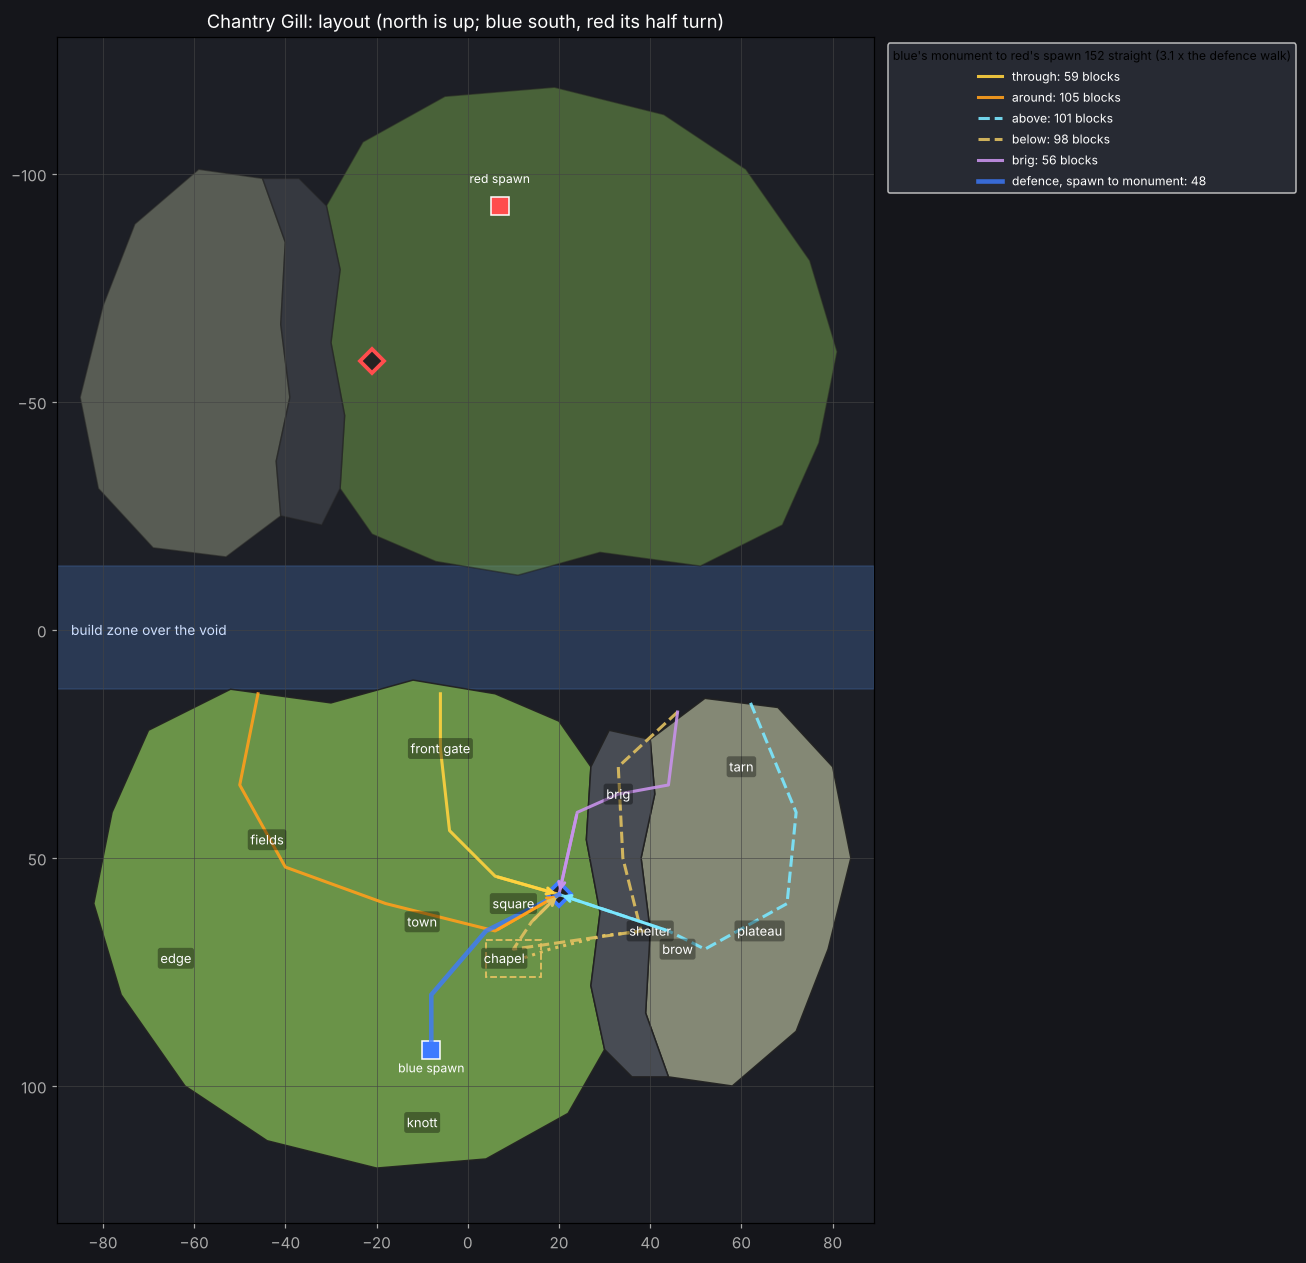
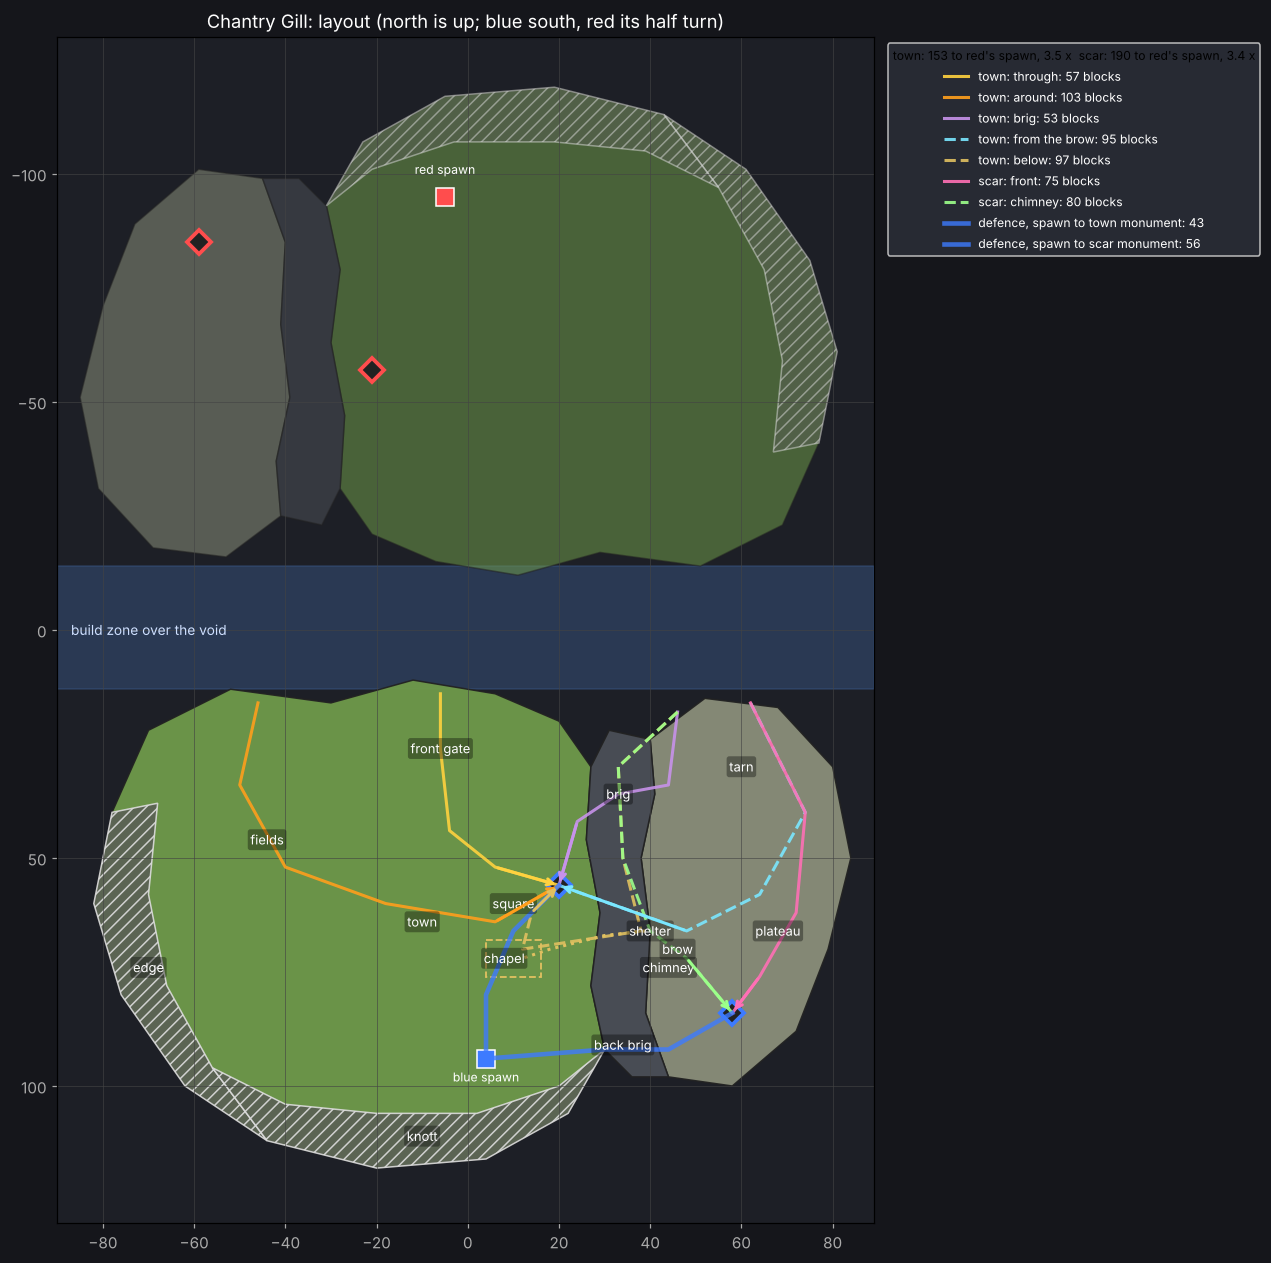
Chantry Gill layout: two monuments a team, the edge and the knott as scenery
A monument on each landmass: over the town's square and on the Scar's
plateau, reached from the spawn down the street and over a back bridge.
The edge and the knott are scenery fenced off by their faces. The Scar
monument has two ways at it of its own, the front slope and a chimney up
from the shelter.

Claude-Session: https://claude.ai/code/session_01SkxaMovP21NqxJRVezmVa6

diff --git a/freeform/lib/boards/chantry-gill/scripts/layout.py b/freeform/lib/boards/chantry-gill/scripts/layout.py
@@ -15,36 +15,50 @@ SIDE = [(40, 24), (52, 15), (68, 17), (80, 30), (84, 50), (79, 70), (72, 88), (5
 # the gill: the gorge between them, its floor 9 under the main island's rim
 GILL = [MAIN[7], MAIN[8], MAIN[9], MAIN[10], MAIN[11], (36, 98), (44, 98), SIDE[9], SIDE[10], SIDE[11], SIDE[12],
         SIDE[0], (31, 22)]
+# scenery: the edge down the west and the knott across the back, high ground fenced off from play by its own
+# faces; it frames the board and nobody fights on it
+EDGE = [(-82, 60), (-76, 80), (-62, 100), (-44, 112), (-56, 96), (-66, 78), (-70, 58), (-68, 38), (-78, 40)]
+KNOTT = [(-44, 112), (-20, 118), (4, 116), (22, 106), (30, 92), (20, 100), (2, 106), (-20, 106), (-40, 104),
+         (-56, 96)]
 BUILD_Z = (-14, 13)                       # the build zone over the void between the teams, the board's whole width
 X_RANGE = (-90, 89)
 
 PLACES = {                                 # name: (x, z, what it is)
-    "spawn": (-8, 92, "the spawn, at the foot of the knott, the hall behind it"),
-    "monument": (20, 58, "the monument: three obsidian over the market square, on the town's east rim"),
+    "spawn": (4, 94, "the spawn, at the foot of the knott, the hall behind it"),
+    "town monument": (20, 56, "the town monument: three obsidian over the market square, on the town's east rim"),
+    "scar monument": (58, 84, "the Scar monument: three obsidian on the plateau behind the brow"),
     "square": (10, 60, "the market square, stalls along its west edge"),
     "chapel": (8, 72, "the chapel on the square's south side, the crypt under it, the ladder up into its nave"),
     "town": (-10, 64, "the town: houses on the main street and a lane, the wall broken on its west"),
     "front gate": (-6, 26, "the north gate, where the street leaves the town for the front"),
-    "knott": (-10, 108, "the knott: a crag behind the spawn, its face to the north, gullies in it"),
-    "edge": (-64, 72, "the edge: a slanting scarp down the west, its face to the town, dying out at the front"),
+    "knott": (-10, 111, "the knott: a crag across the back, its face to the north over the spawn; scenery"),
+    "edge": (-70, 74, "the edge: a scarp down the west, its face to the fell; scenery"),
     "fields": (-44, 46, "the byre, its field and the flower meadow, between the edge and the town"),
     "brig": (33, 36, "the brig: a stone arch over the gill, from the front of the town to the tarn"),
     "tarn": (60, 30, "the tarn on the Scar's front, its beach to the north, the beck running in from the gill"),
     "brow": (46, 70, "the Scar's brow: its face leaning out over the gill, 14 over the square and 22 off it"),
     "shelter": (40, 66, "the shelter worn into the brow's foot on the gill floor; the adit runs on from it"),
-    "plateau": (64, 66, "the plateau behind the brow, reached up a slope at its north end"),
+    "plateau": (68, 66, "the plateau behind the brow, reached up a slope at its north end"),
+    "back brig": (34, 91, "a timber bridge over the gill behind the brow: the spawn's way to the Scar"),
+    "chimney": (44, 74, "a chimney in the rock from the shelter up to the plateau, a ladder in it"),
 }
-SPAWN, MONUMENT = PLACES["spawn"][:2], PLACES["monument"][:2]
+SPAWN = PLACES["spawn"][:2]
+MONUMENTS = [PLACES["town monument"][:2], PLACES["scar monument"][:2]]
+MONUMENT = MONUMENTS[0]
 
-# the ways an attacker landing on this half comes at the monument
+# the ways an attacker landing on this half comes at each monument
 ROUTES = {
-    "through": [(-6, 14), (-6, 26), (-4, 44), (6, 54), (20, 58)],
-    "around": [(-46, 14), (-50, 34), (-40, 52), (-18, 60), (6, 66), (20, 58)],
-    "above": [(62, 16), (72, 40), (70, 60), (52, 70), (44, 66), "bridge", (20, 58)],
-    "below": [(46, 18), (33, 30), (34, 50), (38, 66), "adit", (10, 70), "shaft", (14, 64), (20, 58)],
-    "brig": [(46, 18), (44, 34), (33, 36), (24, 40), (20, 58)],
+    "town: through": [(-6, 14), (-6, 26), (-4, 44), (6, 52), (20, 56)],
+    "town: around": [(-46, 16), (-50, 34), (-40, 52), (-18, 60), (6, 64), (20, 56)],
+    "town: brig": [(46, 18), (44, 34), (33, 36), (24, 42), (20, 56)],
+    "town: from the brow": [(62, 16), (74, 40), (64, 58), (48, 66), "bridge", (20, 56)],
+    "town: below": [(46, 18), (33, 30), (34, 50), (38, 66), "adit", (12, 70), "ladder", (14, 62), (20, 56)],
+    "scar: front": [(62, 16), (74, 40), (72, 62), (64, 76), (58, 84)],
+    "scar: chimney": [(46, 18), (33, 30), (34, 50), (40, 66), "chimney", (48, 72), (58, 84)],
 }
-DEFENCE = [(-8, 92), (-8, 80), (4, 66), (20, 58)]
+DEFENCES = [[(4, 94), (4, 80), (10, 66), (20, 56)],
+            [(4, 94), (30, 92), (44, 92), (58, 84)]]
+DEFENCE = DEFENCES[0]
 ADIT = [(39, 66, 33), (30, 67, 29), (18, 70, 30), (12, 72, 33)]      # (x, z, floor y): shelter to crypt
 CRYPT = (4, 68, 16, 76)
 

diff --git a/freeform/lib/boards/chantry-gill/scripts/sketch_layout.py b/freeform/lib/boards/chantry-gill/scripts/sketch_layout.py
@@ -22,32 +22,39 @@ for team, f in (("blue", lambda p: p), ("red", L.turn)):
     pale = team == "red"
     for poly, colour in ((L.MAIN, "#6f9a4a"), (L.SIDE, "#8a8f7a"), (L.GILL, "#4b4f57")):
         ax.add_patch(Polygon([f(p) for p in poly], closed=True, fc=colour, ec="#222", lw=1, alpha=0.55 if pale else 0.95))
+    for poly in (L.EDGE, L.KNOTT):
+        ax.add_patch(Polygon([f(p) for p in poly], closed=True, fc="#5a5f55", ec="#ddd", lw=1, hatch="///",
+                             alpha=0.5 if pale else 0.9))
     sx, sz = f(L.SPAWN)
-    mx, mz = f(L.MONUMENT)
     c = "#3d7bff" if team == "blue" else "#ff4d4d"
     ax.plot(sx, sz, "s", ms=12, mfc=c, mec="w")
-    ax.plot(mx, mz, "D", ms=11, mfc="#222", mec=c, mew=2.5)
+    for m in L.MONUMENTS:
+        mx, mz = f(m)
+        ax.plot(mx, mz, "D", ms=11, mfc="#222", mec=c, mew=2.5)
     ax.text(sx, sz + (5 if team == "blue" else -5), f"{team} spawn", color="w", ha="center", fontsize=8)
 for name, (x, z, _) in L.PLACES.items():
-    if name in ("spawn", "monument"):
+    if name in ("spawn", "town monument", "scar monument"):
         continue
     ax.text(x, z, name, color="w", ha="center", va="center", fontsize=8.5,
             bbox=dict(boxstyle="round,pad=0.2", fc="#000", alpha=0.35, lw=0))
 ax.add_patch(plt.Rectangle((L.CRYPT[0], L.CRYPT[1]), L.CRYPT[2] - L.CRYPT[0], L.CRYPT[3] - L.CRYPT[1], fill=False,
                            ec="#e0c060", ls="--", lw=1.2))
 ax.plot([a[0] for a in L.ADIT], [a[1] for a in L.ADIT], ls=":", color="#e0c060", lw=2)
-colours = {"through": "#ffd23f", "around": "#ff9f1c", "above": "#7ae7ff", "below": "#e0c060", "brig": "#c792ea"}
+colours = {"town: through": "#ffd23f", "town: around": "#ff9f1c", "town: from the brow": "#7ae7ff",
+           "town: below": "#e0c060", "town: brig": "#c792ea", "scar: front": "#ff6fb5", "scar: chimney": "#9cff8a"}
 for name, pts in L.ROUTES.items():
     p = [q for q in pts if not isinstance(q, str)]
     ax.annotate("", xy=p[-1], xytext=p[-2], arrowprops=dict(arrowstyle="->", color=colours[name], lw=2))
     ax.plot([q[0] for q in p], [q[1] for q in p], color=colours[name], lw=2, alpha=0.9,
-            ls="--" if name in ("above", "below") else "-", label=f"{name}: {L.length(pts):.0f} blocks")
-ax.plot([q[0] for q in L.DEFENCE], [q[1] for q in L.DEFENCE], color="#3d7bff", lw=3, alpha=0.8,
-        label=f"defence, spawn to monument: {L.length(L.DEFENCE):.0f}")
-own = L.length(L.DEFENCE)
-far = math.dist(L.MONUMENT, L.turn(L.SPAWN))
+            ls="--" if any(k in name for k in ("brow", "below", "chimney")) else "-", label=f"{name}: {L.length(pts):.0f} blocks")
+for n, d in enumerate(L.DEFENCES):
+    ax.plot([q[0] for q in d], [q[1] for q in d], color="#3d7bff", lw=3, alpha=0.8,
+            label=f"defence, spawn to {('town', 'scar')[n]} monument: {L.length(d):.0f}")
+title = "  ".join(f"{('town', 'scar')[n]}: {math.dist(m, L.turn(L.SPAWN)):.0f} to red's spawn, "
+                  f"{math.dist(m, L.turn(L.SPAWN)) / L.length(d):.1f} x"
+                  for n, (m, d) in enumerate(zip(L.MONUMENTS, L.DEFENCES)))
 ax.legend(loc="upper left", bbox_to_anchor=(1.01, 1), fontsize=8, facecolor="#2a2d36", labelcolor="w", framealpha=0.9,
-          title=f"blue's monument to red's spawn {far:.0f} straight ({far / own:.1f} x the defence walk)",
+          title=title,
           title_fontsize=8)
 ax.set_xlim(x0, x1)
 ax.set_ylim(130, -130)

diff --git a/freeform/lib/boards/chantry-gill/PLAN.md b/freeform/lib/boards/chantry-gill/PLAN.md
@@ -1,14 +1,14 @@
 # Chantry Gill: the plan
 
-Destroy the monument, two teams, one monument a team. This file grows as the board is decided; the layout comes
+Destroy the monument, two teams, two monuments a team: one on each landmass. This file grows as the board is decided; the layout comes
 first. `scripts/layout.py` is the layout as data, `scripts/sketch_layout.py` draws it (`renders/00-layout.png`),
 and `assets/` holds the sheets every piece was designed and looked at on before the board was built.
 
 ## 1. The identity
 
 **Two hill towns face each other across the void, each on a fell with a limestone scar beside it across a gill;
-the monument stands on the town's rim over the gill, and the scar's leaning brow and the old adit under the gill
-are the two ways at it that no street leads.**
+one monument stands on the town's rim over the gill and one on the scar's plateau, and the scar's leaning brow,
+its chimney and the old adit under the gill are the ways at them that no street leads.**
 
 ## 2. The layout
 
@@ -17,30 +17,37 @@ Blue holds the south (z > 0); red is blue's image under the half turn, (x, z) ->
 
 | Land | What it is |
 |---|---|
-| **Main island**, the fell | about 110 across and 105 deep: the town on its east rim, the spawn at its back under the knott, the edge down its west side, fields between the edge and the town |
+| **Main island**, the fell | about 110 across and 105 deep: the town on its east rim, the spawn at its back, fields between the town and the west |
+| **Scenery**, the edge and the knott | the main island's west side and back: a scarp and a crag fenced off from the fell by their own faces, framing the board; nobody fights on them |
 | **Side island**, the Scar | about 45 across and 85 deep, east of the main island: the tarn at its front, the plateau behind its leaning brow |
-| **The Gill** | the gap between the two islands is a gorge, not void: 8 to 12 across, its floor about 9 under the town's rim; the brig crosses it near the front; it opens to the void at both ends |
+| **The Gill** | the gap between the two islands is a gorge, not void: 8 to 12 across, its floor about 9 under the town's rim; the brig crosses it near the front and a timber bridge behind the brow; it opens to the void at both ends |
 | **The void** | between the teams, from z -14 to 13, crossed by a build zone the board's whole width |
 
 Under the half turn each team's side island lies opposite the other team's main island, so a team landing from the
 build zone comes ashore either on the enemy's fell or on the enemy's Scar.
 
-## 3. The ways at blue's monument
+## 3. The monuments and the ways at them
 
-| Way | From the build zone | Length | What it asks |
+The **town monument** stands over the market square on the town's east rim, the **Scar monument** on the plateau
+behind the brow. They are an east and a west across the gill, so a defence holds two places and the gill between
+them; the spawn reaches the town's in 43 blocks down the street and the Scar's in 56 over the back bridge.
+
+| Monument | Way | Length | What it asks |
 |---|---|---|---|
-| **Through** | the front coast, the north gate, the street, the square | 59 | the town fought through house by house |
-| **Around** | the west coast, past the fields, into the town's west | 105 | the long way, under the edge, unseen from the square |
-| **Over the brig** | ashore by the tarn, across the brig, up onto the square's north | 56 | the shortest way, and one bridge to hold |
-| **Above** | ashore on the Scar, up its north slope to the plateau and out to the brow | 101, then a bridge | the brow stands 14 over the square and 22 off it: a bridge built in the open, from above |
-| **Below** | down into the gill, along its floor to the shelter in the brow's foot, the adit under the gill into the crypt, the ladder up into the chapel | 98 | arriving unseen, under the defence, up one ladder ten blocks from the monument |
+| town | **Through** | 57 | ashore on the front coast, the north gate, the street, the square: the town fought through house by house |
+| town | **Around** | 103 | ashore on the west coast, past the fields into the town's west, unseen from the square |
+| town | **Over the brig** | 53 | ashore by the tarn, over the brig onto the square: the shortest way, and one bridge to hold |
+| town | **From the brow** | 95, then a bridge | over the Scar to its brow, 14 over the square and 22 off it: a bridge built in the open, from above |
+| town | **Below** | 97 | down into the gill, to the shelter in the brow's foot, the adit under the gill into the crypt, the ladder up into the chapel, ten blocks from the monument |
+| Scar | **Front** | 75 | ashore by the tarn and up the Scar's north slope onto the plateau |
+| Scar | **Chimney** | 80 | along the gill floor to the shelter and up the chimney in the rock, coming out on the plateau beside the monument |
 
-The defenders walk 48 from the spawn to the monument; blue's monument is 152 in a straight line from red's spawn,
-3.1 times that walk.
+The town monument is 153 in a straight line from red's spawn, 3.5 times blue's walk to it; the Scar monument 190,
+3.4 times.
 
 ## Open
 
-- The straight line from a spawn to the enemy monument, 152, is at the top of the band a destroy board is held to
-  (85 to 150 of walk); the monument may move a few blocks north once the town is laid.
+- The straight lines from a spawn to the enemy's monuments, 153 and 190, are over the band a destroy board is held
+  to (85 to 150 of walk); the board is large for two monuments, and the scenery could give back some of its depth.
 - The gill's two mouths open to the void. The beck rises at its back and turns east into the tarn before the front,
   so no water runs over an edge.
